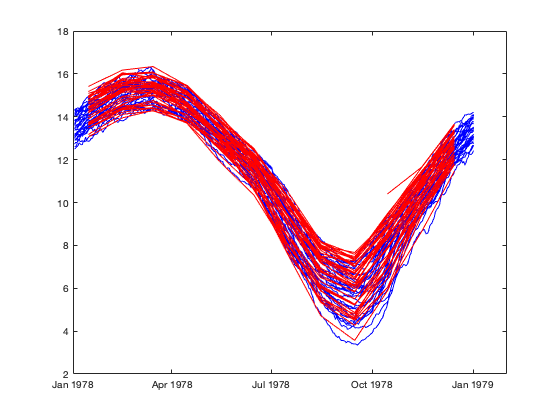
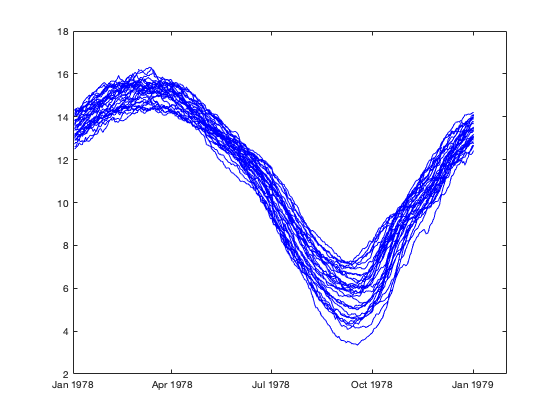
Corrected a few typos in readtimeseries doc

Changed region(s): [[0.1518, 0.1548, 0.8196, 0.8048]]

diff --git a/cdt/doc/html/reshapetimeseries_documentation.html b/cdt/doc/html/reshapetimeseries_documentation.html
@@ -6,7 +6,7 @@
    <!--
 This HTML was auto-generated from MATLAB code.
 To make changes, update the MATLAB code and republish this document.
-      --><title>reshapetimeseries documentation</title><meta name="generator" content="MATLAB 9.4"><link rel="schema.DC" href="http://purl.org/dc/elements/1.1/"><meta name="DC.date" content="2019-03-06"><meta name="DC.source" content="reshapetimeseries_documentation.m"><style type="text/css">
+      --><title>reshapetimeseries documentation</title><meta name="generator" content="MATLAB 9.4"><link rel="schema.DC" href="http://purl.org/dc/elements/1.1/"><meta name="DC.date" content="2019-03-07"><meta name="DC.source" content="reshapetimeseries_documentation.m"><style type="text/css">
 html,body,div,span,applet,object,iframe,h1,h2,h3,h4,h5,h6,p,blockquote,pre,a,abbr,acronym,address,big,cite,code,del,dfn,em,font,img,ins,kbd,q,s,samp,small,strike,strong,sub,sup,tt,var,b,u,i,center,dl,dt,dd,ol,ul,li,fieldset,form,label,legend,table,caption,tbody,tfoot,thead,tr,th,td{margin:0;padding:0;border:0;outline:0;font-size:100%;vertical-align:baseline;background:transparent}body{line-height:1}ol,ul{list-style:none}blockquote,q{quotes:none}blockquote:before,blockquote:after,q:before,q:after{content:'';content:none}:focus{outine:0}ins{text-decoration:none}del{text-decoration:line-through}table{border-collapse:collapse;border-spacing:0}
 
 html { min-height:100%; margin-bottom:1px; }
@@ -66,31 +66,35 @@ table td { padding:7px 5px; text-align:left; vertical-align:top; border:1px soli
 
 
 
-  </style></head><body><div class="content"><h1><tt>reshapetimeseries</tt> documentation</h1><!--introduction--><p>The <tt>rehspaetimeseries</tt> function reshapes a vector of timeseries data onto a grid, accounting for messiness associated with leap days or unevenly-spaced data.</p><p><a href="CDT_Contents.html">Back to Climate Data Tools Contents</a></p><!--/introduction--><h2>Contents</h2><div><ul><li><a href="#1">Syntax</a></li><li><a href="#2">Description</a></li><li><a href="#3">Example</a></li></ul></div><h2 id="1">Syntax</h2><pre>[xg, yr] = reshapetimeseries(t, x)
+  </style></head><body><div class="content"><h1><tt>reshapetimeseries</tt> documentation</h1><!--introduction--><p>The <tt>rehspaetimeseries</tt> function reshapes a vector of timeseries data onto a time-of-year x year grid, accounting for messiness associated with leap days or unevenly-spaced data.</p><p><a href="CDT_Contents.html">Back to Climate Data Tools Contents</a></p><!--/introduction--><h2>Contents</h2><div><ul><li><a href="#1">Syntax</a></li><li><a href="#2">Description</a></li><li><a href="#3">Example</a></li></ul></div><h2 id="1">Syntax</h2><pre>[xg, yr] = reshapetimeseries(t, x)
 [xg, yr] = reshapetimeseries(t, x, 'bin', bin)
 [xg, yr] = reshapetimeseries(t, x, 'func', func)
 [xg, yr] = reshapetimeseries(t, x, 'yrlim', yrlim)
 [xg, yr] = reshapetimeseries(t, x, 'pivotdate, [mon day])</pre><h2 id="2">Description</h2><h2 id="3">Example</h2><p>When working with timeseries data, one often wants to analyze or plot things by time of year.  For example, let's look at the sea ice extent example:</p><pre class="codeinput">load <span class="string">seaice_extent</span>;
 
 plot(t, extent_N);
-</pre><img vspace="5" hspace="5" src="reshapetimeseries_documentation_01.png" alt=""> <p>We can use &lt;doy_documentation.html <tt>doy</tt>) to put this data on a day-of-year axis rather than datetimes:</p><pre class="codeinput">cla;
+</pre><img vspace="5" hspace="5" src="reshapetimeseries_documentation_01.png" alt=""> <p>We can use <a href="doy_documentation.html"><tt>doy</tt></a> to put this data on a day-of-year axis rather than datetimes:</p><pre class="codeinput">cla;
 plot(doy(t), extent_N);
 </pre><img vspace="5" hspace="5" src="reshapetimeseries_documentation_02.png" alt=""> <p>But ugh, that wrapping from one year to the next prevents any quick and easy plotting. And we can calculate statistics across years by using <tt>splitapply</tt> or <tt>accumarray</tt>:</p><pre class="codeinput">[g, tdoy] = findgroups(floor(doy(t)));
 iceavg = splitapply(@nanmean, extent_N, g);
-</pre><p>But that syntax gets awfully clunky when you want to do more in-depth analysis.  Both of these tasks would be a lot simpler if we could just reshape the data into matrix.  The problem, of course, is those pesky leap days, always leading to uneven numbers of datapoints in different years and throwing off attempts to reshape.  The <tt>reshapetimeseries</tt> function cleans up that messiness:</p><pre class="codeinput">[ice, yr, tmid] = reshapetimeseries(t, extent_N);
 
+hold <span class="string">on</span>;
+plot(tdoy, iceavg, <span class="string">'linewidth'</span>, 2);
+</pre><img vspace="5" hspace="5" src="reshapetimeseries_documentation_03.png" alt=""> <p>But that syntax gets awfully clunky when you want to do more in-depth analysis.  Both of these tasks would be a lot simpler if we could just reshape the data into matrix.  The problem, of course, is those pesky leap days, always leading to uneven numbers of datapoints in different years and throwing off attempts to reshape.  The <tt>reshapetimeseries</tt> function cleans up that messiness:</p><pre class="codeinput">[ice, yr, tmid] = reshapetimeseries(t, extent_N);
+
+cla;
 plot(tmid, ice, <span class="string">'b'</span>)
 hold <span class="string">on</span>
-</pre><img vspace="5" hspace="5" src="reshapetimeseries_documentation_03.png" alt=""> <p>By default, it uses date bins, which makes sure to keep calendar dates aligned from one year to the next, and averages Feb 28-29 data in leap years.  Monthly binning can also be achieved by setting the 'bin' input appropriately. (Note that the first year in this dataset started mid-October, which leads to the outlier-like point in the monthly averages).</p><pre class="codeinput">[icem, yr, tmidm] = reshapetimeseries(t, extent_N, <span class="string">'bin'</span>, <span class="string">'month'</span>);
+</pre><img vspace="5" hspace="5" src="reshapetimeseries_documentation_04.png" alt=""> <p>By default, it uses date bins, which makes sure to keep calendar dates aligned from one year to the next, and averages Feb 28-29 data in leap years.  Monthly binning can also be achieved by setting the 'bin' input appropriately. (Note that the first year in this dataset started mid-October, which leads to the outlier-like point in the monthly averages).</p><pre class="codeinput">[icem, yr, tmidm] = reshapetimeseries(t, extent_N, <span class="string">'bin'</span>, <span class="string">'month'</span>);
 
 plot(tmidm, icem, <span class="string">'r'</span>)
-</pre><img vspace="5" hspace="5" src="reshapetimeseries_documentation_04.png" alt=""> <p>While Jan 1 is usually a good place to place the year-to-year wrap, sometimes your dataset may call for a different placement.  For example, we can place the wrap near the low point of this timeries, in October. In this example, we choose 52 evenly-spaced bins per year, which is approximately a weekly average:</p><pre class="codeinput">[ice, yr, tmid] = reshapetimeseries(t, extent_N, <span class="keyword">...</span>
+</pre><img vspace="5" hspace="5" src="reshapetimeseries_documentation_05.png" alt=""> <p>While Jan 1 is usually a good place to place the year-to-year wrap, sometimes your dataset may call for a different placement.  For example, we can place the wrap near the low point of this timeries, in mid September. In this example, we choose 52 evenly-spaced bins per year, which is approximately a weekly average:</p><pre class="codeinput">[ice, yr, tmid] = reshapetimeseries(t, extent_N, <span class="keyword">...</span>
     <span class="string">'pivotdate'</span>, [9 15], <span class="string">'bin'</span>, 52);
 
 cla
 plot(tmid, ice, <span class="string">'b'</span>)
 hold <span class="string">on</span>
-</pre><img vspace="5" hspace="5" src="reshapetimeseries_documentation_05.png" alt=""> <p>One thing to be aware of with this function is that it will add a NaN placeholder for any bins where no data existed in the original timeseries.  Most of the time this will correspond to larger gaps in your timeseries, e.g. at the beginning or end if the timeseries doesn't start and end on the same calendar day.  However, this can also occur if you choose a binning interval on a finer scale than your original data. For example, in this dataset, the early data is sampled every 2 days.  If we try binning this on a daily basis, we end up with sparse data, staggered every other year:</p><pre class="codeinput">isearly = t &lt; datetime(1988,1,1);
+</pre><img vspace="5" hspace="5" src="reshapetimeseries_documentation_06.png" alt=""> <p>One thing to be aware of with this function is that it will add a NaN placeholder for any bins where no data existed in the original timeseries.  Most of the time this will correspond to larger gaps in your timeseries, e.g. at the beginning or end if the timeseries doesn't start and end on the same calendar day.  However, this can also occur if you choose a binning interval on a finer scale than your original data. For example, in this dataset, the early data is sampled every 2 days.  If we try binning this on a daily basis, we end up with sparse data, staggered every other year:</p><pre class="codeinput">isearly = t &lt; datetime(1988,1,1);
 [ice, yr, tmid] = reshapetimeseries(t(isearly), extent_N(isearly));
 
 tlbl = doy(tmid, <span class="string">'decimalyear'</span>)- year(tmid(1));
@@ -101,7 +105,8 @@ shading <span class="string">flat</span>;
 cmocean(<span class="string">'ice'</span>);
 xlabel(<span class="string">'Year'</span>);
 ylabel(<span class="string">'Year fraction'</span>);
-</pre><img vspace="5" hspace="5" src="reshapetimeseries_documentation_06.png" alt=""> <p>In this case, we'd want to make sure we chose a larger interval when doing any real analysis:</p><pre class="codeinput">[ice, yr, tmid] = reshapetimeseries(t(isearly), extent_N(isearly), <span class="string">'bin'</span>, floor(365/2));
+</pre><img vspace="5" hspace="5" src="reshapetimeseries_documentation_07.png" alt=""> <p>In this case, we'd want to make sure we chose a larger interval when doing any real analysis:</p><pre class="codeinput">[ice, yr, tmid] = reshapetimeseries(t(isearly), extent_N(isearly), <span class="keyword">...</span>
+    <span class="string">'bin'</span>, floor(365/2));
 
 figure;
 imagesc(yr, tlbl, ice);
@@ -109,13 +114,13 @@ shading <span class="string">flat</span>;
 cmocean(<span class="string">'ice'</span>);
 xlabel(<span class="string">'Year'</span>);
 ylabel(<span class="string">'Year fraction'</span>);
-</pre><img vspace="5" hspace="5" src="reshapetimeseries_documentation_07.png" alt=""> <p class="footer"><br><a href="https://www.mathworks.com/products/matlab/">Published with MATLAB&reg; R2018a</a><br></p></div><!--
+</pre><img vspace="5" hspace="5" src="reshapetimeseries_documentation_08.png" alt=""> <p class="footer"><br><a href="https://www.mathworks.com/products/matlab/">Published with MATLAB&reg; R2018a</a><br></p></div><!--
 ##### SOURCE BEGIN #####
 %% |reshapetimeseries| documentation 
 %
 % The |rehspaetimeseries| function reshapes a vector of timeseries data
-% onto a grid, accounting for messiness associated with leap days or
-% unevenly-spaced data.
+% onto a time-of-year x year grid, accounting for messiness associated with
+% leap days or unevenly-spaced data. 
 %
 % <CDT_Contents.html Back to Climate Data Tools Contents>
 %
@@ -140,7 +145,7 @@ load seaice_extent;
 plot(t, extent_N);
 
 %%
-% We can use <doy_documentation.html |doy|) to put this data on a
+% We can use <doy_documentation.html |doy|> to put this data on a
 % day-of-year axis rather than datetimes:
 
 cla;
@@ -154,6 +159,9 @@ plot(doy(t), extent_N);
 [g, tdoy] = findgroups(floor(doy(t)));
 iceavg = splitapply(@nanmean, extent_N, g);
 
+hold on;
+plot(tdoy, iceavg, 'linewidth', 2);
+
 %%
 % But that syntax gets awfully clunky when you want to do more in-depth
 % analysis.  Both of these tasks would be a lot simpler if we could just
@@ -164,6 +172,7 @@ iceavg = splitapply(@nanmean, extent_N, g);
 
 [ice, yr, tmid] = reshapetimeseries(t, extent_N);
 
+cla;
 plot(tmid, ice, 'b')
 hold on
 
@@ -182,7 +191,7 @@ plot(tmidm, icem, 'r')
 %%
 % While Jan 1 is usually a good place to place the year-to-year wrap,
 % sometimes your dataset may call for a different placement.  For example,
-% we can place the wrap near the low point of this timeries, in October.
+% we can place the wrap near the low point of this timeries, in mid September.
 % In this example, we choose 52 evenly-spaced bins per year, which is
 % approximately a weekly average:
 
@@ -221,7 +230,8 @@ ylabel('Year fraction');
 % In this case, we'd want to make sure we chose a larger interval when
 % doing any real analysis:
 
-[ice, yr, tmid] = reshapetimeseries(t(isearly), extent_N(isearly), 'bin', floor(365/2));
+[ice, yr, tmid] = reshapetimeseries(t(isearly), extent_N(isearly), ...
+    'bin', floor(365/2));
 
 figure;
 imagesc(yr, tlbl, ice);

diff --git a/cdt/doc/reshapetimeseries_documentation.m b/cdt/doc/reshapetimeseries_documentation.m
@@ -1,8 +1,8 @@
 %% |reshapetimeseries| documentation 
 %
 % The |rehspaetimeseries| function reshapes a vector of timeseries data
-% onto a grid, accounting for messiness associated with leap days or
-% unevenly-spaced data.
+% onto a time-of-year x year grid, accounting for messiness associated with
+% leap days or unevenly-spaced data. 
 %
 % <CDT_Contents.html Back to Climate Data Tools Contents>
 %
@@ -27,7 +27,7 @@ load seaice_extent;
 plot(t, extent_N);
 
 %%
-% We can use <doy_documentation.html |doy|) to put this data on a
+% We can use <doy_documentation.html |doy|> to put this data on a
 % day-of-year axis rather than datetimes:
 
 cla;
@@ -41,6 +41,9 @@ plot(doy(t), extent_N);
 [g, tdoy] = findgroups(floor(doy(t)));
 iceavg = splitapply(@nanmean, extent_N, g);
 
+hold on;
+plot(tdoy, iceavg, 'linewidth', 2);
+
 %%
 % But that syntax gets awfully clunky when you want to do more in-depth
 % analysis.  Both of these tasks would be a lot simpler if we could just
@@ -51,6 +54,7 @@ iceavg = splitapply(@nanmean, extent_N, g);
 
 [ice, yr, tmid] = reshapetimeseries(t, extent_N);
 
+cla;
 plot(tmid, ice, 'b')
 hold on
 
@@ -69,7 +73,7 @@ plot(tmidm, icem, 'r')
 %%
 % While Jan 1 is usually a good place to place the year-to-year wrap,
 % sometimes your dataset may call for a different placement.  For example,
-% we can place the wrap near the low point of this timeries, in October.
+% we can place the wrap near the low point of this timeries, in mid September.
 % In this example, we choose 52 evenly-spaced bins per year, which is
 % approximately a weekly average:
 
@@ -108,7 +112,8 @@ ylabel('Year fraction');
 % In this case, we'd want to make sure we chose a larger interval when
 % doing any real analysis:
 
-[ice, yr, tmid] = reshapetimeseries(t(isearly), extent_N(isearly), 'bin', floor(365/2));
+[ice, yr, tmid] = reshapetimeseries(t(isearly), extent_N(isearly), ...
+    'bin', floor(365/2));
 
 figure;
 imagesc(yr, tlbl, ice);
